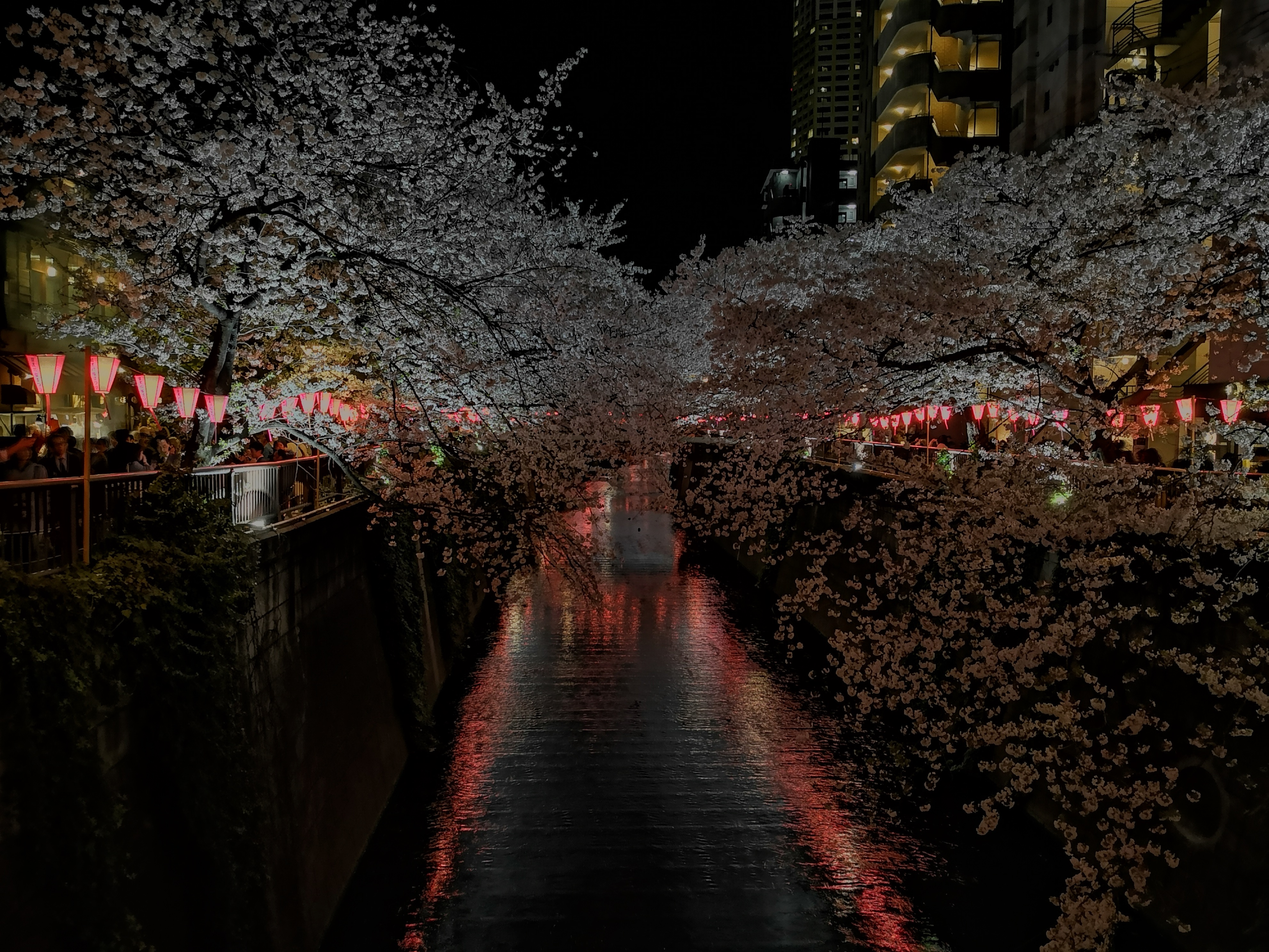
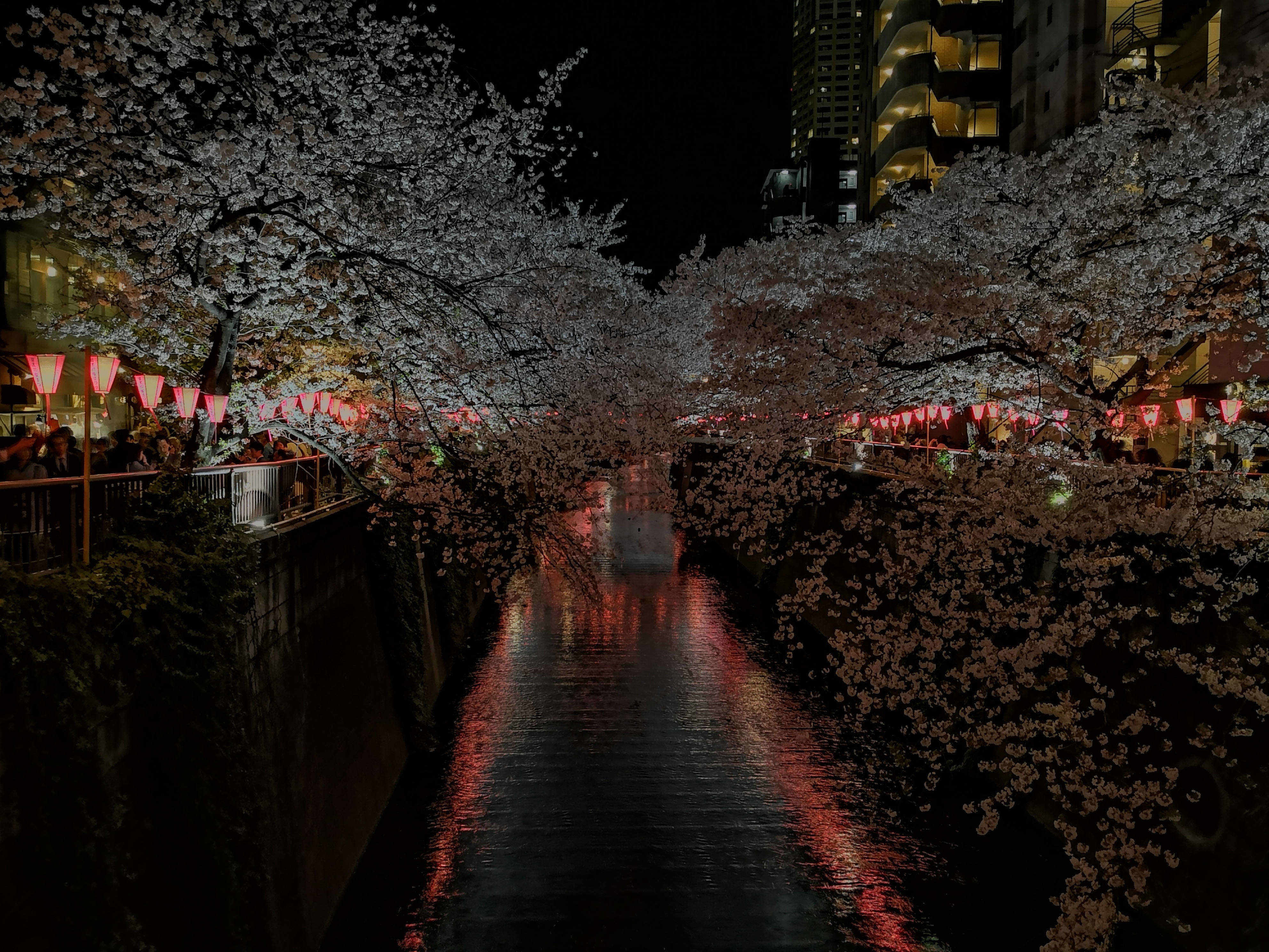
optimize images

diff --git a/assets/js/doughnut.js b/assets/js/doughnut.js
@@ -4,41 +4,40 @@ Chart.defaults.scale.ticks.beginAtZero = true;
 
 // For a pie chart
 var myPieChart = new Chart(ctx, {
-  type: 'doughnut',
-  data: {
-    labels: ['HTML', 'CSS', 'Javascript', 'Project One', 'Node.js', 'ES6', 'mySQL', 'MVC', "Full-Stack", "Project Two", 'Locked'],
-    datasets: [
-      {
-        label: 'Topics',
-        backgroundColor: ['#ff9100', '#008cff','#ffe600','#4aaaa5', '#00ad00','#ffe600', '#57ddff','#830288','#882524' ,'#cffe77' , '#ddd'],
-        borderWidth: 0,
-        data: [1, 1, 4, 2, 2, 1, 1, 1, 1, 2, 8]
-      }
-    ]
-  },
-  
-  options: {
-    
-    title: {
-      display: true,
-      text: "Bootcamp Progress",
-      fontSize: 20,
-      fontColor: "#ffffff"
-    },
-    
-   responsive: true,
-    cutoutPercentage: 20,
-    animation: {
-      animateScale: true
-    },
-    maintainAspectRatio : false,
-    legend: {
-      display: true,
-      position: 'bottom',
-      labels: {
-        fontColor: '#ffffff'
-      }
-    }
-  }
-  
+	type: 'doughnut',
+	data: {
+		labels: ['HTML', 'CSS', 'Javascript', 'Project One', 'Node.js', 'ES6', 'mySQL', 'MVC', "Full-Stack", "Project Two", "MongoDB", "Progressive Web Apps", "React", 'Computer Science', 'Project Three'],
+		datasets: [
+			{
+				label: 'Topics',
+				backgroundColor: ['#ff9100', '#008cff', '#ffe600', '#4aaaa5', '#00ad00', '#ffe600', '#57ddff', '#830288', '#882524', '#cffe77', '#00ad00', '#1d44f2', '#00ddd2', '#5a5a5a', '#dd2c00'],
+				borderWidth: 0,
+				data: [1, 1, 4, 2, 2, 1, 1, 1, 1, 2, 1, 1, 3, 1, 2]
+			}
+		]
+	},
+
+	options: {
+
+		title: {
+			display: true,
+			text: "Bootcamp Progress (24/24 Weeks)",
+			fontSize: 20,
+			fontColor: "#ffffff"
+		},
+
+		responsive: true,
+		cutoutPercentage: 20,
+		animation: {
+			animateScale: true
+		},
+		maintainAspectRatio: false,
+		legend: {
+			display: true,
+			position: 'bottom',
+			labels: {
+				fontColor: '#ffffff'
+			}
+		}
+	}
 });

diff --git a/index.html b/index.html
@@ -65,10 +65,12 @@
 				<p>I am a Full Stack Web Developer. Over the course of 24 weeks I have attained a multitude of technical
 					skill
 					through my time at Monash Coding Bootcamp, graduating with a certification through the University. I
-					have included multiple
-					<b><em>Full Stack Applications</em></b> and have developed not only the ability, but a passion for
-					building problem solving, user focused apps. Ultimately I wish to find a position in the tech
-					industry and believe the newly developed skills
+					have included below my personal
+					<b><em>Full Stack Applications</em></b> which were created as I developed not only the ability, but
+					a
+					passion for
+					building problem solving, user focused apps. Ultimately I wish to find a role in the tech
+					industry and believe my newly developed skills
 					will assist in positioning me well for this career transition.</p>
 			</div>
 		</div>
@@ -78,7 +80,7 @@
 				<p>I am a University of Auckland graduate with a Bachelors Degree in Nursing. I have worked as a
 					Registered Nurse since 2015 specialising in
 					Perioperative Nursing (Surgery). Throughout this profession I have gained transferable skills, many
-					of which include effective communcication, problem solving within time constraints, and
+					of which include effective communication, problem solving within time constraints, and
 					understanding team dynamics. Recently I've dropped to part-time work in order to dedicate myself to
 					software development.</p>
 			</div>
